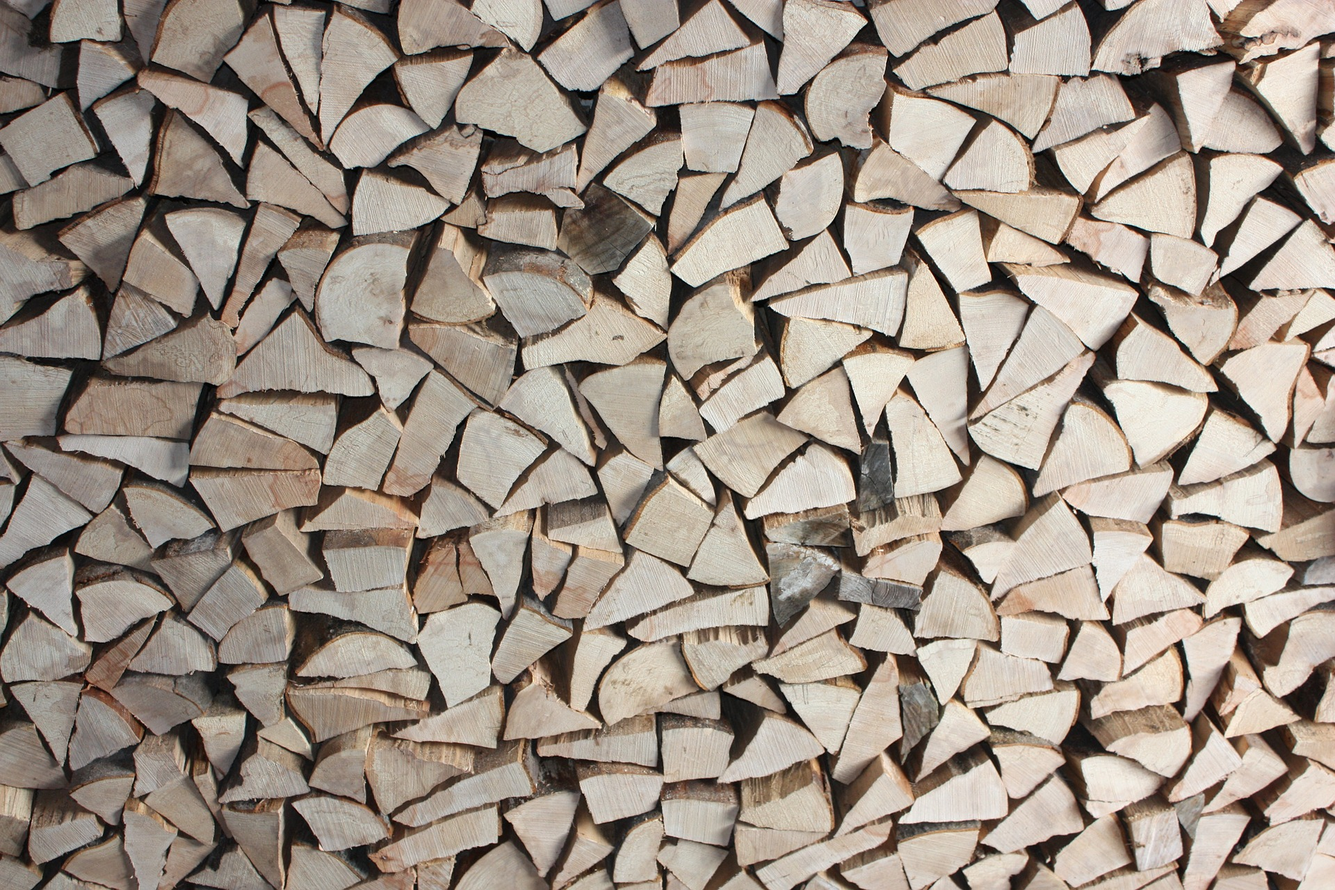
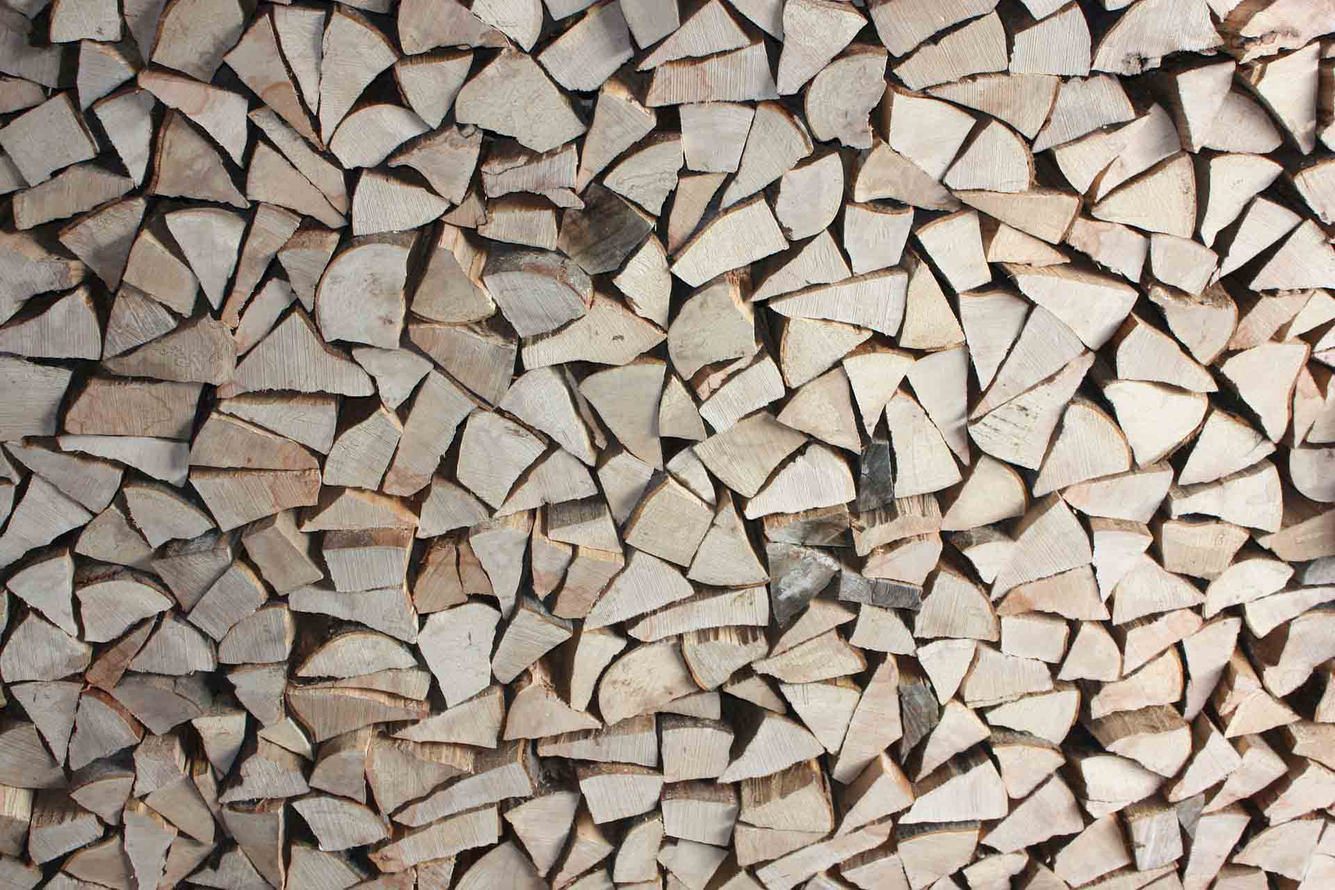
update

diff --git a/aboutme.html b/aboutme.html
@@ -18,6 +18,13 @@
       <script src="//cdn.bootcss.com/html5shiv/3.7.2/html5shiv.min.js"></script>
       <script src="//cdn.bootcss.com/respond.js/1.4.2/respond.min.js"></script>
     <![endif]-->
+    <script type="text/javascript">
+      function img_zoom(obj, sType) {
+        var oDiv = document.getElementById(obj);
+        if (sType == 'show') { oDiv.style.display = 'block';}
+        if (sType == 'hide') { oDiv.style.display = 'none';}
+      }
+    </script>
   </head>
 
   <body>
@@ -66,7 +73,7 @@
 <!--导航栏结束-->
 <br/><br/><br/>
 
-<div class="jumbotron"><div class="container">
+<div class="jumbotron"><div class="container container_background">
 
   <h1>关于本站</h1>
   <p>本博客由<a href="#aboutme">Bennu Chan</a>基于<a href="http://www.bootcss.com/">Bootstrap</a>创建。</p>
@@ -94,7 +101,7 @@
 
   <br/>
 <!-- Button trigger modal -->
-<button type="button" class="btn btn-primary btn-lg" data-toggle="modal" data-target="#myModal">了解更多</button>
+<button type="button" class="btn btn-primary btn-lg" data-toggle="modal" data-target="#myModal">了解更多</button></div>
 
 <!-- Modal -->
 <div class="modal fade" id="myModal" tabindex="-1" role="dialog" aria-labelledby="myModalLabel">
@@ -118,21 +125,23 @@
 </div>
 
   <br/>
+  <div class="container container_background">
   <h1 id="aboutme">关于我</h1>
-  <p>Bennu Chan，中文名陈雄群。资深网民。曾以数十个网名、笔名、马甲潜水于知乎、新浪微博、百度贴吧、开源中国、CSDN、SF、Quora、Facebook等中外网站。</p>
-  <p>崇尚科学技术。热爱自由。</p>
-  <p>喜欢Python。</p>
-  <p>夕瓜是部分时候写作的笔名。也是本人开通的微信公众号名字。</p>
+  <p>· Bennu Chan，中文名陈雄群。资深网民。曾以数十个网名、笔名、马甲潜水于知乎、新浪微博、百度贴吧、开源中国、CSDN、SF、Quora、Facebook等中外网站。</p>
+  <p>· 崇尚科学技术。热爱自由。</p>
+  <p>· 喜欢Python。</p>
+  <p>· 夕瓜是部分时候写作的笔名。也是本人开通的微信公众号名字。</p>
   <a href="#">
   <div class="aboutme_img">
-    <img src="assets/img/aboutme_xigua.jpg" alt="Responsive image"/>
+    <img src="assets/img/aboutme_xigua.png" alt="Responsive image" onmouseover="img_zoom('xigua', 'show');" onmouseout="img_zoom('xigua', 'hide')"/>
+  </div>
+  <div style="display:none;" id="xigua"><img src="assets/img/aboutme_xigua.png" alt="Responsive image"/>
   </div>
   </a>
 
   <br/>
 <!-- Button trigger modal -->
-<button type="button" class="btn btn-primary btn-lg" data-toggle="modal" data-target="#aboutme_learn_more">了解更多</button>
-
+<button type="button" class="btn btn-primary btn-lg" data-toggle="modal" data-target="#aboutme_learn_more">了解更多</button></div>
 <!-- Modal -->
 <div class="modal fade" id="aboutme_learn_more" tabindex="-1" role="dialog" aria-labelledby="myModalLabel">
   <div class="modal-dialog" role="document">
@@ -151,33 +160,15 @@
   </div>
 </div>
 
-
  <br/>
+ <div class="container container_background">
  <h1>联系我</h1>
-  <p>...</p>
+  <p>ibennu@163.com</p>
+  <p><a href="http://weibo.com/xxjkcxq ">新浪微博 君子兰2017</a></p>
  <br/>
-<!-- Button trigger modal -->
-<button type="button" class="btn btn-primary btn-lg" data-toggle="modal" data-target="#contactme_learn_more">了解更多</button>
 
-<!-- Modal -->
-<div class="modal fade" id="contactme_learn_more" tabindex="-1" role="dialog" aria-labelledby="myModalLabel">
-  <div class="modal-dialog" role="document">
-    <div class="modal-content">
-      <div class="modal-header">
-        <button type="button" class="close" data-dismiss="modal" aria-label="Close"><span aria-hidden="true">&times;</span></button>
-        <h4 class="modal-title" id="myModalLabel">了解更多</h4>
-      </div>
-      <div class="modal-body">
-      呃，暂时没有额……
-      </div>
-      <div class="modal-footer">
-        <button type="button" class="btn btn-default" data-dismiss="modal">关闭</button>
-      </div>
-    </div>
-  </div>
-</div>
 
-  </div></div><!--jumbotron结束-->
+  </div><!--jumbotron结束-->
 
     <!-- jQuery (necessary for Bootstrap's JavaScript plugins) -->
     <script src="assets/js/jquery-2.2.0.min.js"></script>

diff --git a/articles/skot0038_2016010401.html b/articles/skot0038_2016010401.html
@@ -69,6 +69,17 @@
 <h2>JavaWebAccounts:基于Tomcat的简易账号管理系统</h2>
 <a class="btn btn-primary btn-lg" href="../assets/pdf/JavaWebAccounts.pdf" role="button">阅读PDF文档</a><br/>注意：部分浏览器（尤指移动端浏览器）不能直接浏览，需下载</div>
 
+<!--打分版，用户可以对当前新闻、游戏或者应用等进行1-5级的评分-->
+<div id="SOHUCS" sid="2016010401"></div>
+<script charset="utf-8" type="text/javascript" src="http://changyan.sohu.com/upload/changyan.js" ></script>
+<script type="text/javascript">
+    window._config = { showScore: true };
+    window.changyan.api.config({
+        appid: 'cyshi3bxT',
+        conf: 'prod_4306641fa3d3f5a301a598999cbf0201'
+    });
+</script>
+
     <!-- jQuery (necessary for Bootstrap's JavaScript plugins) -->
     <script src="assets/js/jquery-2.2.0.min.js"></script>
     <!-- Include all compiled plugins (below), or include individual files as needed -->

diff --git a/articles/skli0035_2015121001.html b/articles/skli0035_2015121001.html
@@ -106,6 +106,17 @@ export LD_LIBRARY_PATH=$LD_LIBRARY_PATH:/usr/local/lib  
 <br/>
 <p>记住以上几步就可以应付简单的修改配置文件任务了。
 
+<!--打分版，用户可以对当前新闻、游戏或者应用等进行1-5级的评分-->
+<div id="SOHUCS" sid="2015121001"></div>
+<script charset="utf-8" type="text/javascript" src="http://changyan.sohu.com/upload/changyan.js" ></script>
+<script type="text/javascript">
+    window._config = { showScore: true };
+    window.changyan.api.config({
+        appid: 'cyshi3bxT',
+        conf: 'prod_4306641fa3d3f5a301a598999cbf0201'
+    });
+</script>
+
   </div></div>
 
     <!-- jQuery (necessary for Bootstrap's JavaScript plugins) -->

diff --git a/articles/skfe0037_2016011401.html b/articles/skfe0037_2016011401.html
@@ -110,6 +110,17 @@
 <br/>
 <p>嗯，今天就唠叨到这吧。有时间有机会要认真了解一下Markdown语法。
 
+<!--打分版，用户可以对当前新闻、游戏或者应用等进行1-5级的评分-->
+<div id="SOHUCS" sid="2016011401"></div>
+<script charset="utf-8" type="text/javascript" src="http://changyan.sohu.com/upload/changyan.js" ></script>
+<script type="text/javascript">
+    window._config = { showScore: true };
+    window.changyan.api.config({
+        appid: 'cyshi3bxT',
+        conf: 'prod_4306641fa3d3f5a301a598999cbf0201'
+    });
+</script>
+
   </div></div>
 
     <!-- jQuery (necessary for Bootstrap's JavaScript plugins) -->

diff --git a/articles/xgar0030_2014072201.html b/articles/xgar0030_2014072201.html
@@ -94,6 +94,18 @@
 <br/>
 <p>抱了脏兮兮的被子，又投入另一天前的黑暗中……
 <br/>
+
+<!--打分版，用户可以对当前新闻、游戏或者应用等进行1-5级的评分-->
+<div id="SOHUCS" sid="2014072201"></div>
+<script charset="utf-8" type="text/javascript" src="http://changyan.sohu.com/upload/changyan.js" ></script>
+<script type="text/javascript">
+    window._config = { showScore: true };
+    window.changyan.api.config({
+        appid: 'cyshi3bxT',
+        conf: 'prod_4306641fa3d3f5a301a598999cbf0201'
+    });
+</script>
+
   </div></div>
 
     <!-- jQuery (necessary for Bootstrap's JavaScript plugins) -->

diff --git a/index.html b/index.html
@@ -74,7 +74,7 @@
   <div class="container">
     <h1>Hello, world!</h1>
     <h2>网页正在完善中，由Bennu Chan基于<a href="http://www.bootcss.com/">Bootstrap</a>框架创建。</h2><br/>
-    <a class="btn btn-primary btn-lg" href="discovery/site_log.html" role="button">了解更多</a>
+    <a class="btn btn-primary btn-lg" href="aboutme.html" role="button">了解更多</a>
   </div>
 </div>
 <!--首页封面结束-->

diff --git a/discovery/site_log.html b/discovery/site_log.html
@@ -68,6 +68,11 @@
 <div class="container">
 <h2>网站日志</h2><br/>
 
+<h3>v2.1.2 2016年3月5日</h3><br/>
+1.压缩网站图片，提高访问速度。<br/>
+2.新增文章。
+
+<br/><br/>====================<br/>
 <h3>v2.1.1 2016年3月3日</h3><br/>
 1.推出网站日志。<br/>
 2.修复死链。

diff --git a/assets/css/aboutme.css b/assets/css/aboutme.css
@@ -1,5 +1,5 @@
 .aboutme_img img{width:60px;height:60px;}
-
+.container_background{background-color:#e6e6ee;margin-bottom:40px;padding-bottom:20px;}
 @media screen and (min-width:768px)
 {
     .aboutme_img img{width:90px;height:90px;}
